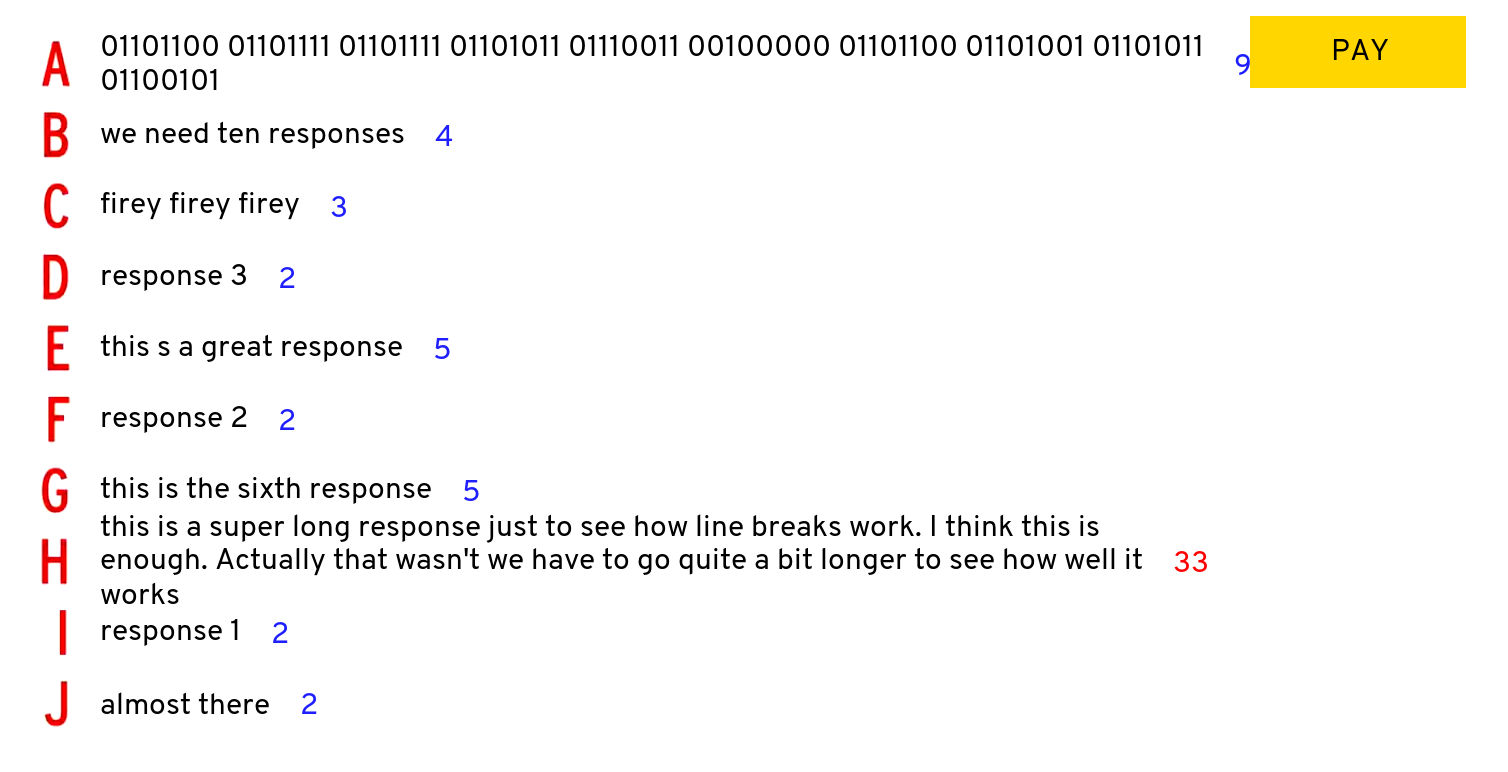
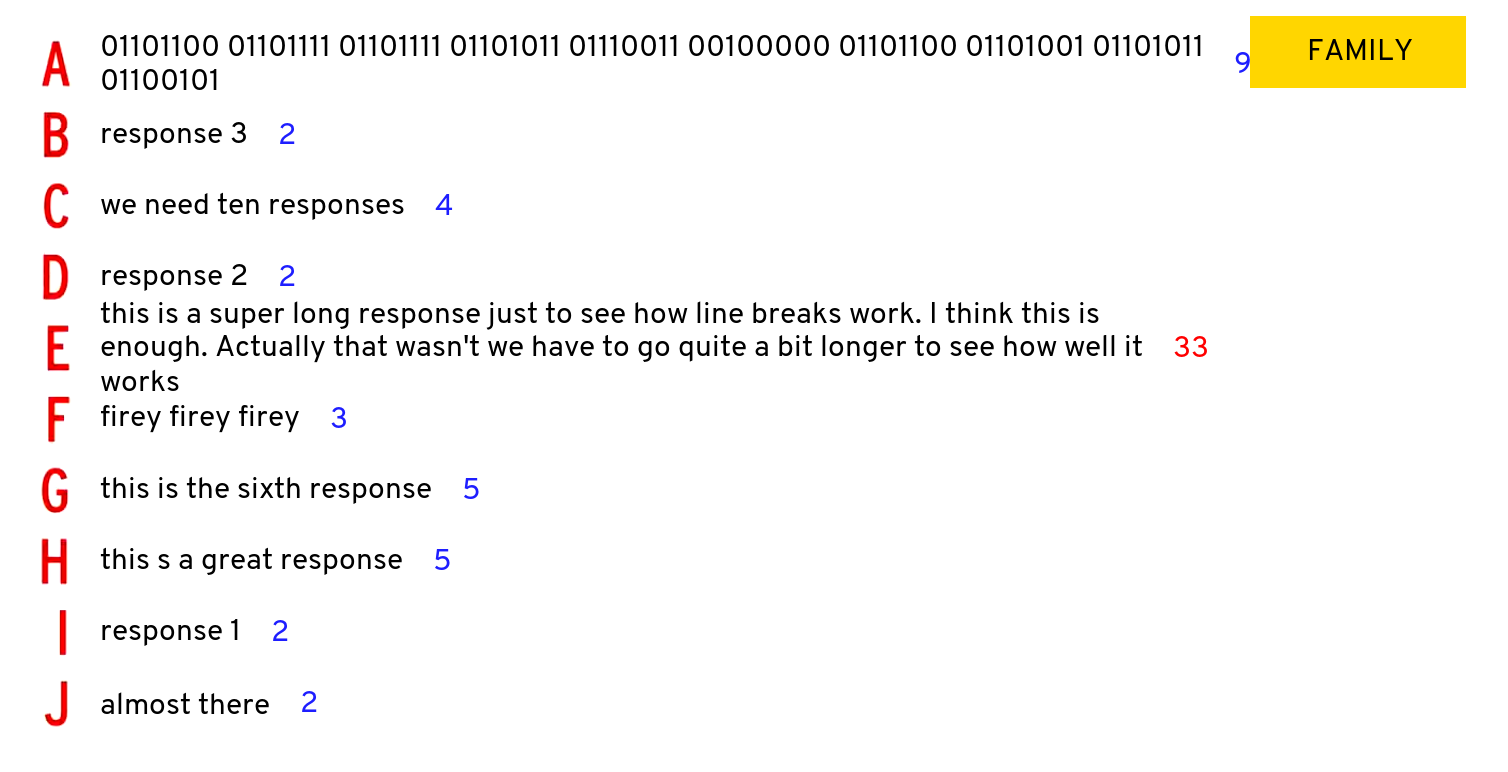
More number tweaks

diff --git a/voteScreenGenerator.py b/voteScreenGenerator.py
@@ -80,9 +80,9 @@ def draw_screens(keylist,path,its,keyorder,voteList,submissionCount,submissions)
 			wordCount = count_words(response)
 					
 			if wordCount >10:
-				drawer.text((distance,71*i+45), str(wordCount), font=font, fill=(255,0,0))#blue
+				drawer.text((distance,int(71.5*i)+42), str(wordCount), font=font, fill=(255,0,0))#blue
 			else:
-				drawer.text((distance,71*i+45), str(wordCount), font=font, fill=(30,30,255))#red
+				drawer.text((distance,int(71.5*i)+42), str(wordCount), font=font, fill=(30,30,255))#red
 			
 			existingEntries.append(submissionNumber)
 			ballot_line = ':regional_indicator_{}: {} ({})\n'.format(chr(i+97),submissions[submissionNumber],wordCount)
